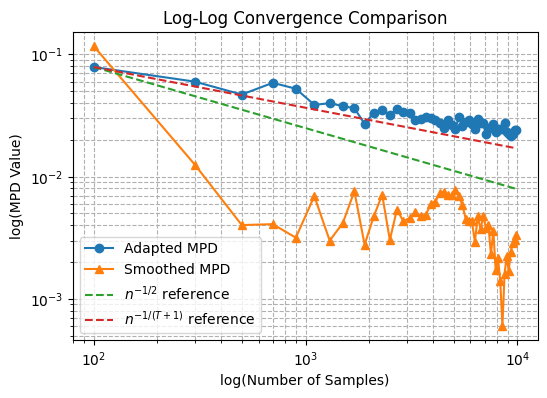
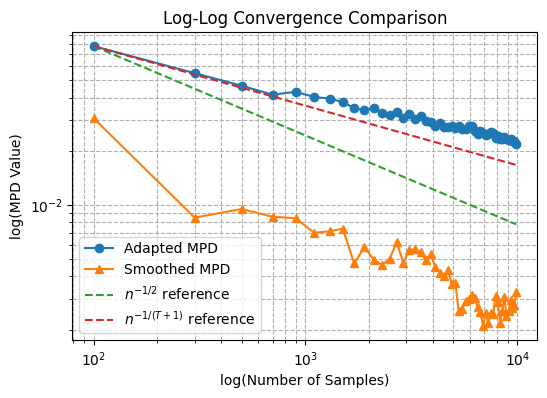
update README.md

diff --git a/README.md b/README.md
@@ -14,7 +14,7 @@ Given a collection of multidimensional pairs $\{(X_i,Y_i)\}_{1 \leq i\leq n}$, w
 <p align="center">
   <em>Figure:</em> Log-log convergence comparison between the adapted MPD (based on the 
   <a href="https://arxiv.org/abs/2002.07261" target="_blank"><em>adapted empirical measure</em></a>) 
-  and the smoothed MPD (<em>ours</em>) for <em>d = 1</em> (left) and <em>d = 3</em> (right), using Unif([-0.5, 0.5])<sup>d</sup> increments.
+  and the smoothed MPD (<em>ours</em>) for <em>d = 1</em> (left) and <em>d = 3</em> (right) averaged across 10 trials (random seeds), using Unif([-0.5, 0.5])<sup>d</sup> increments.
 </p>
 
 # Repo Structure
